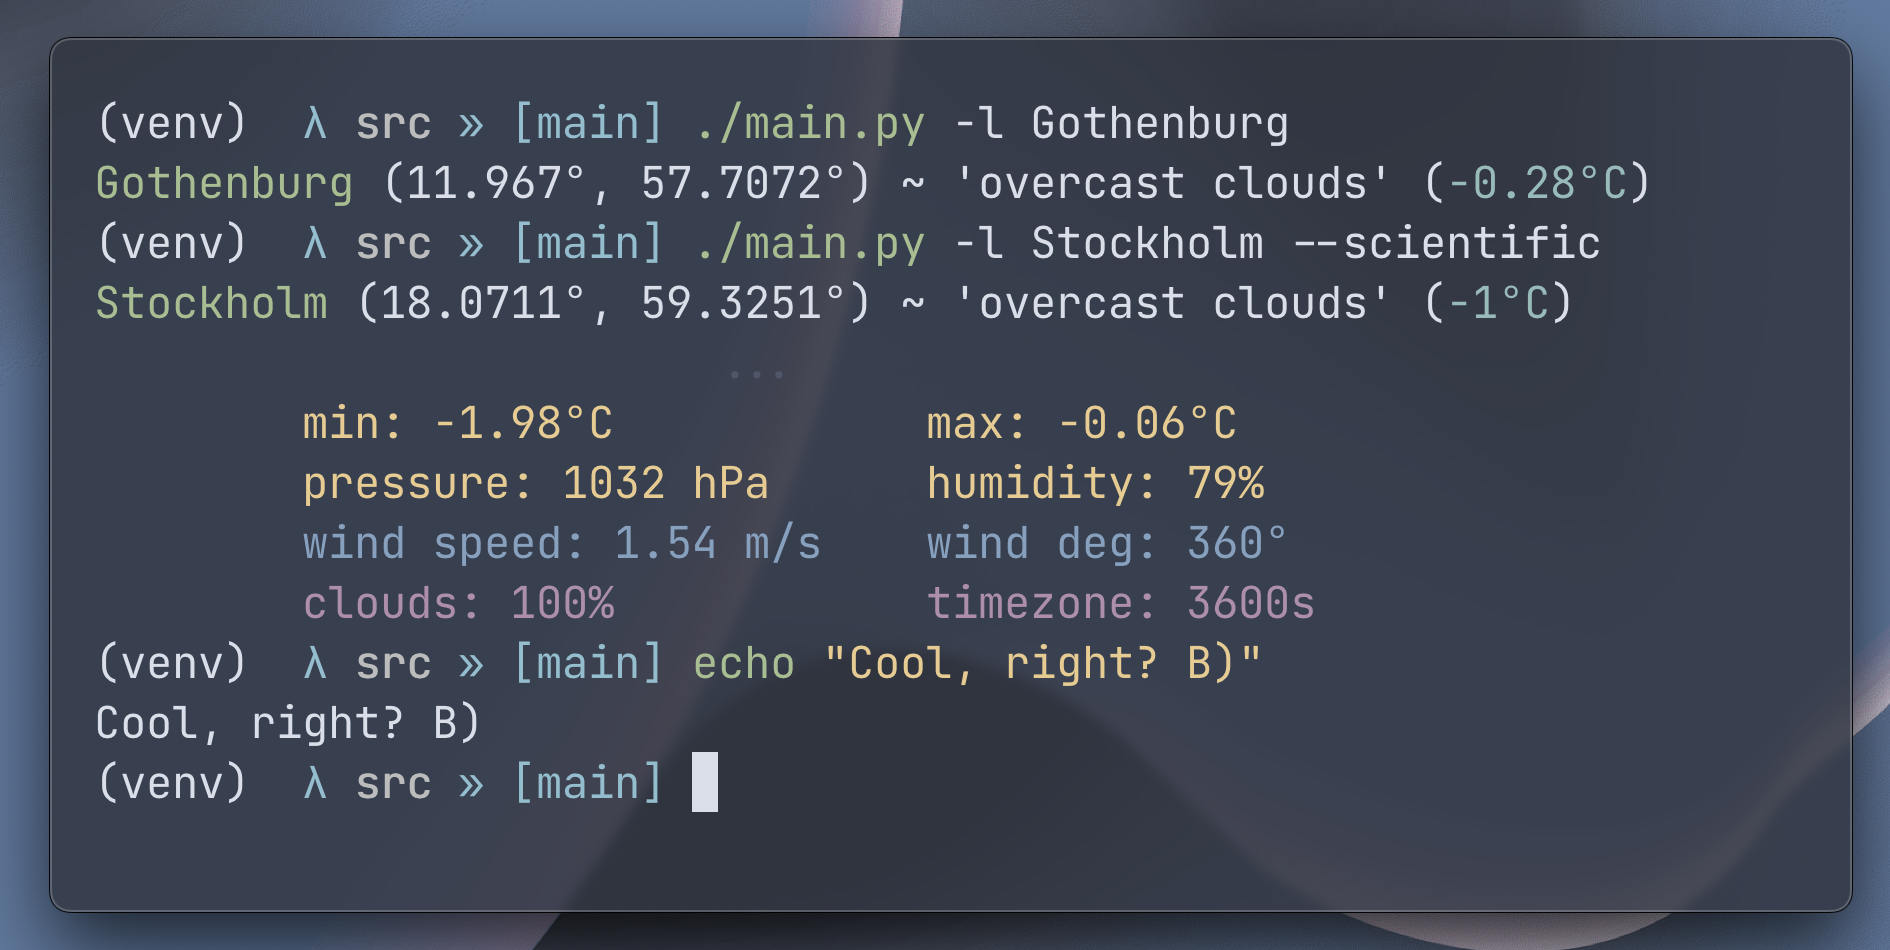
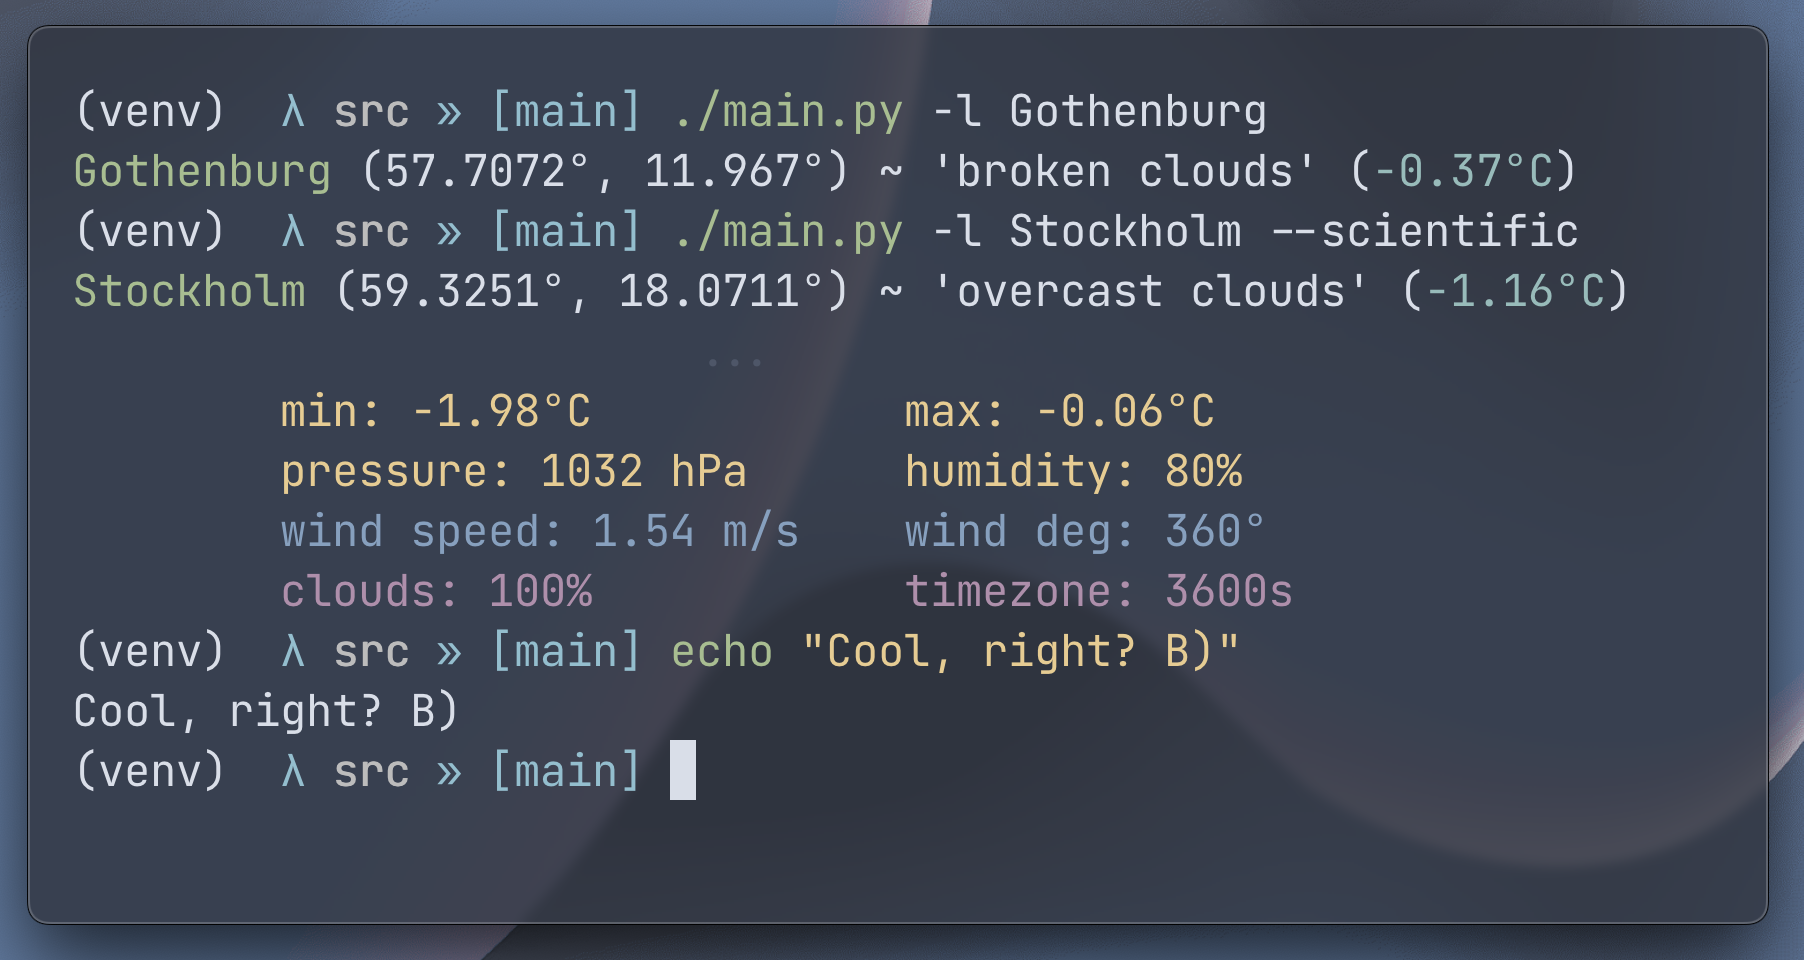
Adjust `docs`, `readme.md` to the new `lan/lon` sequence

Changed region(s): [[0.0, 0.0916, 0.9933, 1.0], [0.0621, 0.0, 0.9933, 0.0611], [0.9623, 0.6716, 1.0, 0.8242]]

diff --git a/readme.md b/readme.md
@@ -88,16 +88,16 @@ __Note__: As of now, the application only supports the `metric` system of units.
 ```sh
 $ ./main.py -l Gothenburg 
 
-Gothenburg (11.967°, 57.7072°) ~ 'overcast clouds' (-0.28°C)
+Gothenburg (57.7072°, 11.967°) ~ 'broken clouds' (-0.37°C)
 ```
 
 ```sh
 $ ./main.py -l Stockholm --scientific
 
-Stockholm (18.0711°, 59.3251°) ~ 'overcast clouds' (-1°C)
+Stockholm (59.3293°, 18.0686°) ~ 'overcast clouds' (-1.13°C)
                         ...
-        min: -1.98°C            max: -0.06°C
-        pressure: 1032 hPa      humidity: 79%
+        min: -1.95°C            max: -0.03°C
+        pressure: 1032 hPa      humidity: 80%
         wind speed: 1.54 m/s    wind deg: 360°
         clouds: 100%            timezone: 3600s
 ```
@@ -116,14 +116,14 @@ $ ./main.py -l Uppsala -o uppsala.md
 #### `Markdown` file content
 
 ```md
-## Uppsala - 2022/12/03 22:19:14
+## Uppsala - 2022/12/03 22:56:43
 
 ![weather icon](http://openweathermap.org/img/w/04n.png)
 
 | attribute | value |
 | :---: | :---: |
-| lon | 17.6389 |
 | lat | 59.8586 |
+| lon | 17.6387 |
 | description | overcast clouds |
 | temp | -0.22 |
 ```
@@ -132,14 +132,14 @@ $ ./main.py -l Uppsala -o uppsala.md
 
 ---
 
-## Uppsala - 2022/12/03 22:19:14
+## Uppsala - 2022/12/03 22:56:43
 
 ![weather icon](http://openweathermap.org/img/w/04n.png)
 
 | attribute | value |
 | :---: | :---: |
-| lon | 17.6389 |
 | lat | 59.8586 |
+| lon | 17.6387 |
 | description | overcast clouds |
 | temp | -0.22 |
 
